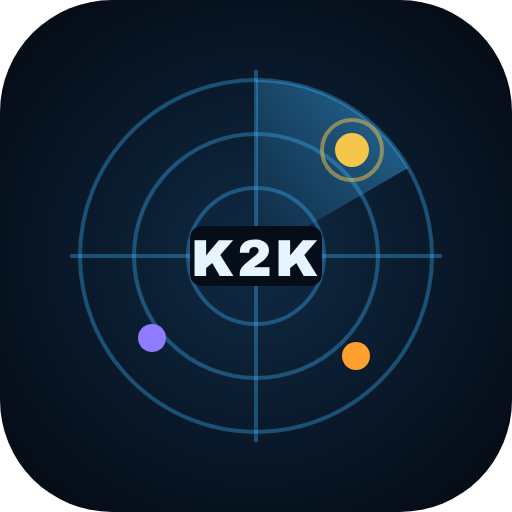
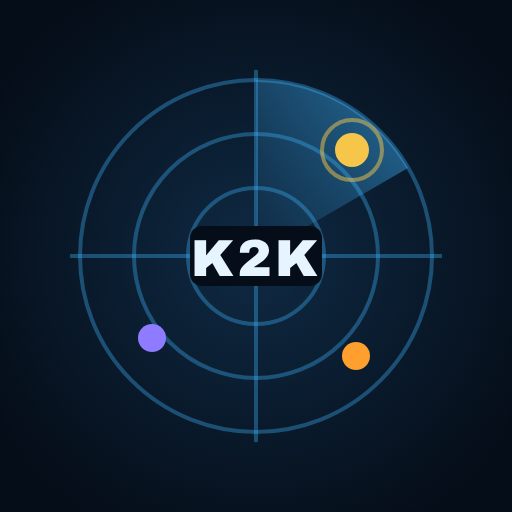
Icône écran d'accueil iPhone : PNG opaques, liens absolus, plus de cache
Claude-Session: https://claude.ai/code/session_01QUNoePtL7yVoUwRy7zhtpo

diff --git a/index.html b/index.html
@@ -9,10 +9,12 @@
 <meta name="apple-mobile-web-app-capable" content="yes">
 <meta name="apple-mobile-web-app-status-bar-style" content="black-translucent">
 <meta name="apple-mobile-web-app-title" content="K2K">
-<link rel="manifest" href="manifest.webmanifest">
+<link rel="manifest" href="manifest.webmanifest?v=3">
 <link rel="icon" href="icons/favicon-32.png" type="image/png" sizes="32x32">
-<link rel="apple-touch-icon" sizes="180x180" href="apple-touch-icon.png?v=2">
-<link rel="apple-touch-icon-precomposed" sizes="180x180" href="apple-touch-icon.png?v=2">
+<link rel="apple-touch-icon" href="https://k2kimmorka60-stack.github.io/k2k/apple-touch-icon.png?v=3">
+<link rel="apple-touch-icon" sizes="152x152" href="https://k2kimmorka60-stack.github.io/k2k/icons/icon-152.png?v=3">
+<link rel="apple-touch-icon" sizes="167x167" href="https://k2kimmorka60-stack.github.io/k2k/icons/icon-167.png?v=3">
+<link rel="apple-touch-icon" sizes="180x180" href="https://k2kimmorka60-stack.github.io/k2k/apple-touch-icon.png?v=3">
 <link rel="preconnect" href="https://fonts.gstatic.com" crossorigin>
 <link rel="stylesheet" href="https://fonts.googleapis.com/css2?family=Archivo:wght@500;700;800&family=IBM+Plex+Mono:wght@400;500&family=IBM+Plex+Sans:wght@400;500;600&display=swap">
 <link rel="stylesheet" href="style.css">

diff --git a/sw.js b/sw.js
@@ -1,5 +1,5 @@
 // K2K : l'appli s'ouvre même hors connexion ; les données de marché passent toujours par le réseau.
-const CACHE = 'k2k-v6';
+const CACHE = 'k2k-v7';
 const SHELL = ['./', 'index.html', 'style.css', 'app.js', 'smc.js', 'cot.js', 'data.js', 'manifest.webmanifest', 'icons/favicon-32.png', 'icons/icon-192.png', 'vendor/lightweight-charts.standalone.production.js'];
 
 self.addEventListener('install', e => {
@@ -12,6 +12,7 @@ self.addEventListener('fetch', e => {
   const url = new URL(e.request.url);
   if (e.request.method !== 'GET') return;
   if (/binance|cftc\.gov/.test(url.hostname)) return; // données en direct : jamais de cache
+  if (/\.(png|webmanifest)$/.test(url.pathname)) return; // icônes et manifeste : toujours servis par le réseau, pour l'écran d'accueil
   // Réseau d'abord, cache en secours : la dernière version est toujours servie quand on est en ligne.
   e.respondWith(
     fetch(e.request).then(res => {
